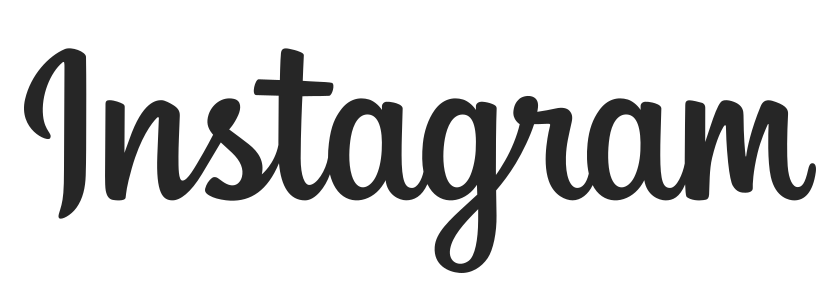
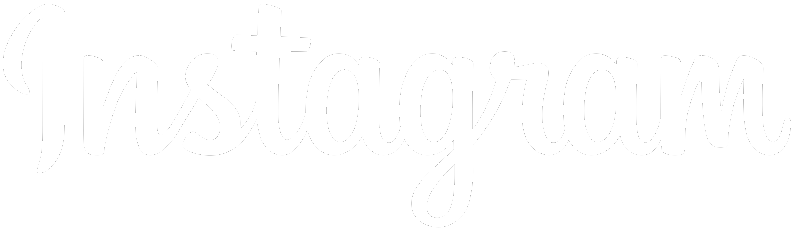
Created the header component for the app now starting the stories componenet

Changed region(s): [[0.0302, 0.1515, 0.9962, 0.9091]]

diff --git a/app/components/Header.js b/app/components/Header.js
@@ -1,14 +1,51 @@
-import { Image, StyleSheet, Text, View } from 'react-native'
-import React from 'react'
+import { Image, StyleSheet, Text, TouchableOpacity, View } from 'react-native'
+import React from 'react';
+
+import { Octicons } from '@expo/vector-icons';
+import { MaterialCommunityIcons } from '@expo/vector-icons';
+import colors from '../config/colors';
 
 const Header = () => {
   return (
-    <View>
-      <Image source={require('../assets/insta.png')} />
+    <View style={styles.container}>
+     <TouchableOpacity> 
+       <Image style={styles.image} source={require('../assets/insta.png')} />
+       </TouchableOpacity>
+      <View style={styles.iconContainer}>
+      <TouchableOpacity>
+        <Octicons style={{marginHorizontal:9}} name="diff-added" size={22} color={colors.white} />
+        </TouchableOpacity>
+      <TouchableOpacity>
+        <MaterialCommunityIcons style={{marginHorizontal:9}} name="heart-outline" size={22} color={colors.white} />
+        </TouchableOpacity>
+      <TouchableOpacity>
+        <MaterialCommunityIcons style={{marginHorizontal:9}} name="facebook-messenger" size={22} color={colors.white} />
+        </TouchableOpacity>
+      </View>
     </View>
   )
 }
 
 export default Header
 
-const styles = StyleSheet.create({})
+const styles = StyleSheet.create({
+    container:{
+        flexDirection:'row',
+        width:"100%",
+        backgroundColor:colors.dark,
+        padding:5,
+        alignItems:'center'
+
+    },
+    image:{
+        height:50,
+        width:100,
+        resizeMode:'contain'
+    },
+    iconContainer:{
+        position:'absolute',
+        right:10,
+        flexDirection:'row'
+        
+    }
+})

diff --git a/app/screens/HomeScreen.js b/app/screens/HomeScreen.js
@@ -1,0 +1,24 @@
+import { StyleSheet, Text, View } from 'react-native'
+import React from 'react'
+import Header from '../components/Header'
+import Screen from '../components/Screen'
+import colors from '../config/colors'
+import Stories from '../components/Stories'
+
+const HomeScreen = () => {
+  return (
+    <Screen style={styles.screen}>
+        <Header />
+        <Stories />
+    </Screen>
+  )
+}
+
+export default HomeScreen;
+
+const styles = StyleSheet.create({
+  screen:{
+    flex:1,
+    backgroundColor:colors.black
+  }
+})

diff --git a/App.js b/App.js
@@ -1,12 +1,12 @@
 import React from 'react';
 import { StyleSheet, Text, View } from 'react-native';
+import Header from './app/components/Header';
 import Screen from './app/components/Screen';
+import HomeScreen from './app/screens/HomeScreen';
 
 export default function App() {
   return (
-    <Screen>
-      <Text>Hello</Text>
-    </Screen>
+    <HomeScreen />
   );
 }
 

diff --git a/app/components/Screen.js b/app/components/Screen.js
@@ -3,9 +3,9 @@ import React from 'react';
 
 import Constants from 'expo-constants';
 
-const Screen = ({children}) => {
+const Screen = ({children,style}) => {
   return (
-    <SafeAreaView style={styles.container}>
+    <SafeAreaView style={[styles.container,style]}>
         <View style={styles.view}>
             {children}
         </View>

diff --git a/app/components/Stories.js b/app/components/Stories.js
@@ -1,0 +1,16 @@
+import { Image, ScrollView, StyleSheet, Text, View } from 'react-native'
+import React from 'react'
+
+const Stories = () => {
+  return (
+    <View>
+        <ScrollView horizontal>
+            <Image />
+        </ScrollView>
+    </View>
+  )
+}
+
+export default Stories
+
+const styles = StyleSheet.create({})

diff --git a/app/config/colors.js b/app/config/colors.js
@@ -1,0 +1,5 @@
+export default{
+    dark:'#0b132b',
+    white:'#fff',
+    black:'#000'
+}
